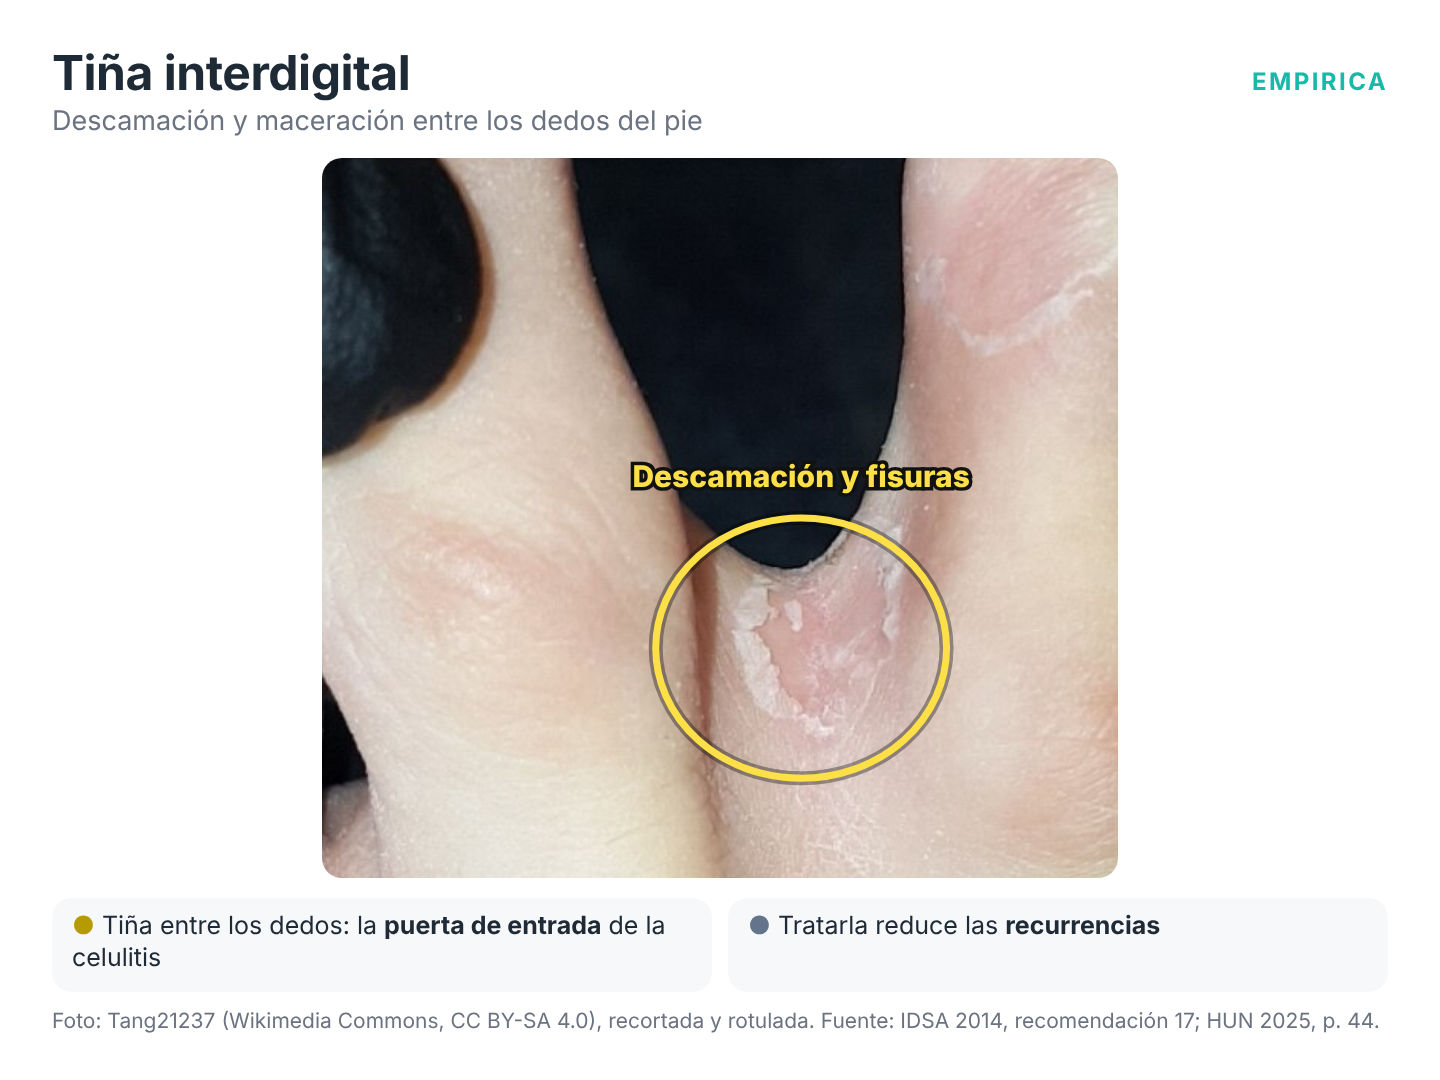
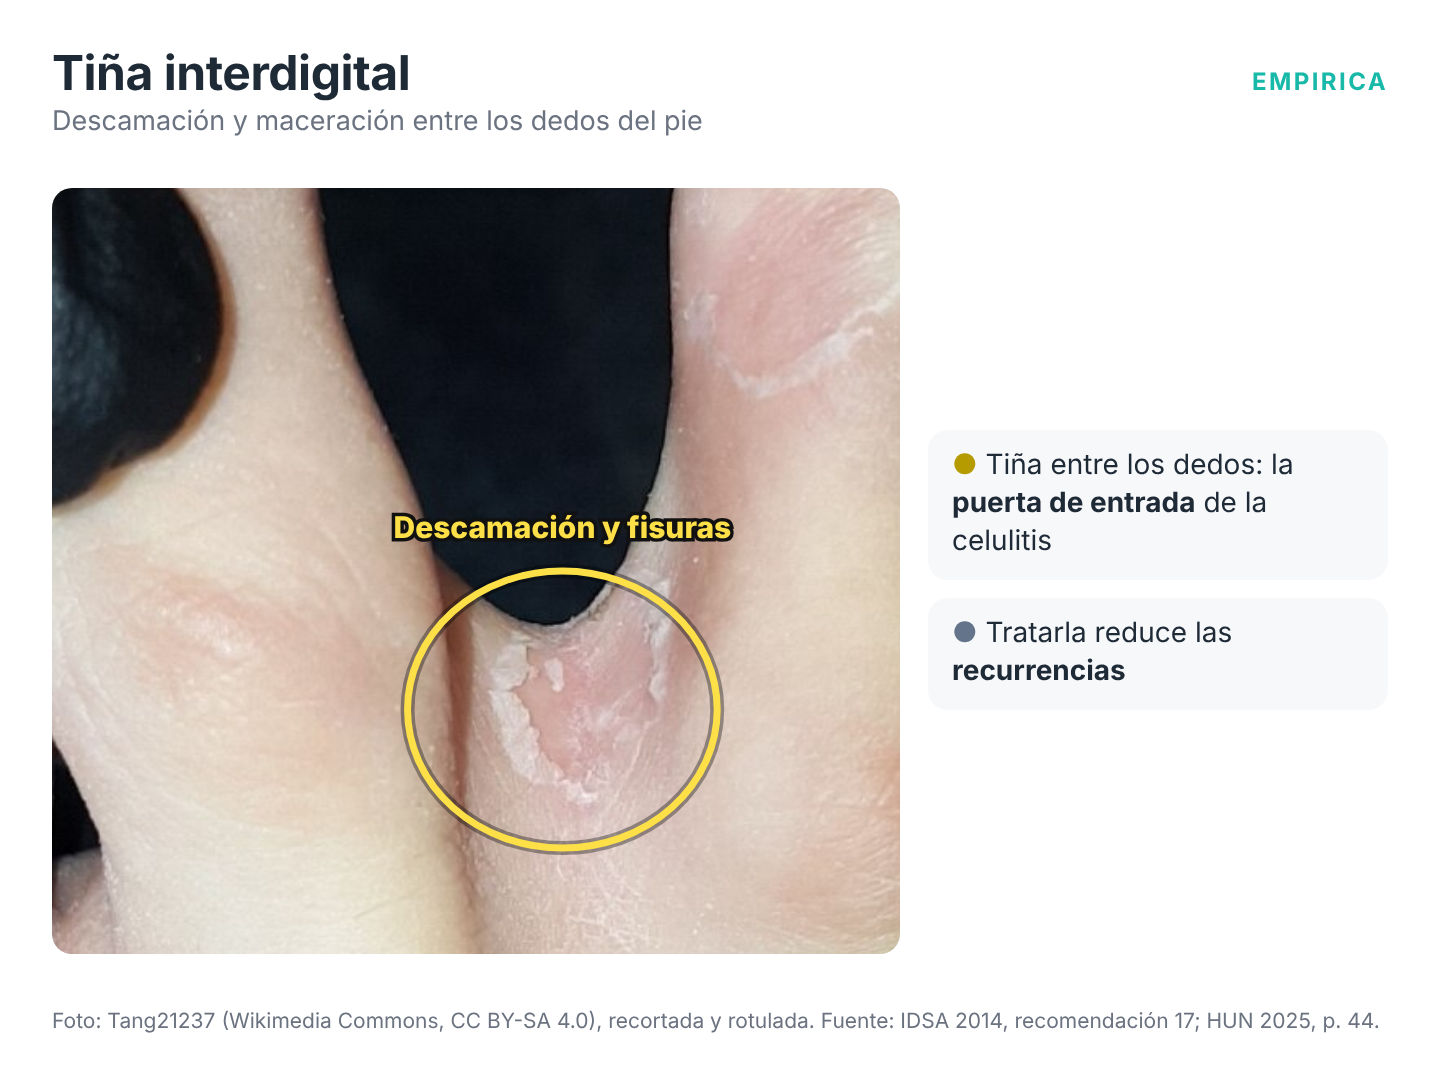
Infecciones de piel: figuras corregidas, leyendas al lado en las fotos verticales y recortes nuevos
Claude-Session: https://claude.ai/code/session_016m5YZV7VdyLu1E6fzxtJJE

diff --git a/tools/medios/figuras/infecciones_piel/absceso_antibiotico.html b/tools/medios/figuras/infecciones_piel/absceso_antibiotico.html
@@ -1,15 +1,17 @@
 <!doctype html><html lang="es"><head><meta charset="utf-8"><script src="base.js"></script></head><body><script>
-// Antibiótico después del drenaje del absceso (IDSA 2014, recs. 5-6, p. e12-e13; ACIN 2019, recs. 8-10, p. 334; WSES 2018,
-// p. 6; HUN 2025, tablas 8-9, p. 65-66; ACIN 2023 pediátrica, p. 124).
-const html = banda("Primero, <b style=\"color:#FDE68A\">drenar</b>: incisión, Gram y cultivo del pus; sin empaquetar la cavidad.", "#7C2D12") +
+// Antibiótico después del drenaje del absceso (IDSA 2014, recs. 4-6, p. e12-e13; ACIN 2019, recs. 8-10 y 36, p. 334-336;
+// WSES 2018, p. 6; WSES 2022, p. 5; HUN 2025, apartado H y tablas 8-9, p. 48 y 65-66; ACIN 2023 pediátrica, p. 124).
+const html = banda("Primero, <b style=\"color:#FDE68A\">drenar</b>: incisión y cultivo del pus, salvo en el quiste epidermoide.", "#7C2D12") +
   filaC(
-    tarjeta(VERDE, "Sólo drenaje", ["Absceso <b>simple</b>", "Sin ningún criterio", "Revisar en <b>48-72 h</b>"], { grande: true }) +
-    tarjeta(AMBAR, "Drenaje + oral", ["SIRS, inmunosupresión", "Absceso de <b>más de 5 cm</b>", "Celulitis extensa, drenaje incompleto o recurrencia",
-                                       "<b>TMP-SMX o clindamicina</b> 5-7 días"], { grande: true }) +
-    tarjeta(ROJO, "Drenaje + IV", ["Hipotensión", "Falla del drenaje y del oral", "Defensas muy comprometidas",
-                                    "<b>Vancomicina</b> 7-14 días"], { grande: true })) +
-  `<div class="caja" style="background:#F1F5F9;font-size:14px"><b style="color:#0E7490">En el niño</b>, el corte del tamaño depende de la edad: más de <b>3 cm</b> de 6 a 11 meses, más de <b>4 cm</b> de 1 a 8 años y más de <b>5 cm</b> después.</div>`;
+    tarjeta(VERDE, "Sólo drenaje", ["Absceso <b>simple</b>: eritema e induración sólo sobre la colección", "Ningún criterio de antibiótico",
+                                     "Revisar en <b>48-72 h</b>", "Consultar si <b>empeora</b>"], { grande: true }) +
+    tarjeta(AMBAR, "Drenaje + oral", ["Algún <b>criterio</b> de antibiótico", "Sin criterios de <b>hospitalización</b>",
+                                       "<b>TMP-SMX o clindamicina</b> 5-7 días", "Revisar en <b>48-72 h</b>"], { grande: true }) +
+    tarjeta(ROJO, "Hospitalizar + IV", ["Sepsis o <b>inmunosupresión</b>", "Cara, cabeza o mano, o falla del tratamiento",
+                                         "<b>Vancomicina</b> 7-14 días", "En el niño grave, <b>+ oxacilina</b>"], { grande: true })) +
+  `<div class="caja" style="background:#F1F5F9;font-size:14px"><b style="color:#0E7490">En el niño</b>, antibiótico si el absceso mide más de <b>3 cm</b> de 6 a 11 meses, más de <b>4 cm</b> de 1 a 8 años o más de <b>5 cm</b> después.</div>` +
+  `<div class="caja" style="background:#FEF2F2;font-size:14px"><b style="color:#B91C1C">Absceso complejo</b> (perianal, perirrectal o de drogas IV): cubrir también <b>gramnegativos y anaerobios</b>.</div>`;
 lienzo("¿Antibiótico después de drenar?", "El drenaje cura el absceso simple; el antibiótico se suma según los criterios",
   `<div style="display:flex;flex-direction:column;gap:9px;flex:1 0 auto">${html}</div>`,
-  "Esquema. Fuente: IDSA 2014, p. e12-e13; ACIN 2019, recomendaciones 8-10, p. 334; WSES 2018, p. 6; HUN 2025, p. 65-66; ACIN 2023 pediátrica, p. 124.");
+  "Esquema. Fuente: IDSA 2014, p. e12-e13; ACIN 2019, recomendaciones 8-10 y 36, p. 334-336; WSES 2018, p. 6; WSES 2022, p. 5; HUN 2025, p. 48 y 65-66; ACIN 2023 pediátrica, p. 124.");
 </script></body></html>

diff --git a/tools/medios/figuras/infecciones_piel/iwgdf_grados.html b/tools/medios/figuras/infecciones_piel/iwgdf_grados.html
@@ -1,17 +1,18 @@
 <!doctype html><html lang="es"><head><meta charset="utf-8"><script src="base.js"></script></head><body><script>
 // Clasificación IWGDF/IDSA de la infección del pie diabético (IWGDF/IDSA 2023, tabla 1, p. 7; recs. 2, 11, 12 y 19, p. 2-4;
-// tabla 5, p. 16) y la conducta de cada grado.
+// tabla 5, p. 16) y la conducta de cada grado. Colores de la calculadora: verde, amarillo, naranja y rojo.
+const AMARILLO_G = "#C99A06";
 const G = [
-  ["#64748B", "1 · Sin infección", "Ningún signo local ni sistémico", ["<b>Sin</b> antibiótico", "Cuidar la úlcera"]],
-  [VERDE, "2 · Leve", "2 o más signos locales; eritema de 0,5 a 2 cm; sólo piel y subcutáneo", ["En <b>casa</b>", "Contra grampositivos, 1-2 semanas"]],
-  [AMBAR, "3 · Moderada", "Eritema de 2 cm o más, o tendón, músculo, articulación o hueso; sin SIRS", ["Hospitalizar si hay <b>enfermedad arterial</b>", "Desbridar en 24-48 h; 2-4 semanas"]],
-  [ROJO, "4 · Grave", "Cualquiera de las anteriores con SIRS (2 o más criterios)", ["<b>Hospitalizar</b>, antibiótico IV", "Cirugía <b>urgente</b>"]],
+  [VERDE, "1 · Sin infección", "Menos de 2 signos locales y sin SIRS", ["<b>Sin</b> antibiótico", "Cuidar la úlcera"]],
+  [AMARILLO_G, "2 · Leve", "2 o más signos locales; eritema de 0,5 a 2 cm; sólo piel y subcutáneo", ["En <b>casa</b>", "Contra grampositivos, 1-2 semanas"]],
+  [NARANJA, "3 · Moderada", "Eritema de 2 cm o más, o tendón, músculo, articulación o hueso; sin SIRS", ["Hospitalizar si hay <b>enfermedad arterial</b>", "Considerar desbridar en 24-48 h; 1-2 semanas"]],
+  [ROJO, "4 · Grave", "Cualquiera de las anteriores con SIRS (2 o más criterios)", ["<b>Hospitalizar</b>, antibiótico IV", "Valoración quirúrgica <b>urgente</b>"]],
 ];
 const html = G.map(([c, tit, def, items]) => `<div style="display:flex;gap:10px;flex:1">
     <div style="width:258px;flex:none;border-radius:12px;background:${c};color:#fff;padding:8px 12px;display:flex;flex-direction:column;justify-content:center">
       <div style="font-size:18px;font-weight:900">${tit}</div><div style="font-size:12.8px;line-height:1.28;margin-top:2px;font-weight:600">${def}</div></div>
     ${tarjeta(c, "Qué hacer", items, { fs: 14 })}</div>`).join("") +
-  banda("Si hay <b style=\"color:#C4B5FD\">osteomielitis</b>, se añade (O) al grado 3 o 4: cultivar el hueso.");
+  banda("Si hay <b style=\"color:#C4B5FD\">osteomielitis</b>, se añade (O) al grado 3 o 4. El SIRS sin signos locales <b style=\"color:#FCA5A5\">no</b> es grado 1.");
 lienzo("Clasificación IWGDF/IDSA del pie diabético", "El grado decide dónde se trata, por qué vía y cuándo operar",
   `<div style="display:flex;flex-direction:column;gap:8px;flex:1 0 auto">${html}</div>`,
   "Esquema. Fuente: IWGDF/IDSA 2023 (Diabetes Metab Res Rev 2024;40:e3687), tabla 1, p. 7; recomendaciones 2, 11, 12 y 19; tabla 5, p. 16. CC BY 4.0.");

diff --git a/tools/medios/figuras/infecciones_piel/capas.html b/tools/medios/figuras/infecciones_piel/capas.html
@@ -13,13 +13,13 @@ const CAPAS = [
   ["Músculo", 240, 390, "#C9505A"],
 ];
 const ETAPAS = [
-  { n: "Impétigo", capa: "Epidermis", c: AMBAR, tipo: "No purulenta, superficial", txt: "Pústulas que se rompen y dejan <b>costras melicéricas</b>", sel: [0] },
-  { n: "Ectima", capa: "Epidermis y dermis", c: NARANJA, tipo: "No purulenta, superficial", txt: "<b>Úlcera en sacabocado</b> con costra; deja cicatriz", sel: [0, 1, 2] },
+  { n: "Impétigo", capa: "Epidermis", c: "#C99A06", tipo: "No purulenta, superficial", txt: "Pústulas que se rompen y dejan <b>costras melicéricas</b>", sel: [0] },
+  { n: "Ectima", capa: "Epidermis y dermis", c: "#A16207", tipo: "No purulenta, superficial", txt: "<b>Úlcera en sacabocado</b> con costra; deja cicatriz", sel: [0, 1, 2] },
   { n: "Erisipela", capa: "Dermis superior y linfáticos", c: ROSA_C, tipo: "No purulenta", txt: "Placa roja, edematosa, con <b>borde neto</b>", sel: [1] },
-  { n: "Celulitis", capa: "Dermis profunda y subcutáneo", c: ROJO, tipo: "No purulenta", txt: "Eritema de <b>bordes mal definidos</b>, con calor y dolor", sel: [2, 3] },
-  { n: "Absceso", capa: "Dermis e hipodermis", c: AMBAR, tipo: "Purulenta", txt: "<b>Cavidad llena de pus</b>: se drena", sel: [2, 3] },
-  { n: "Fascitis necrosante", capa: "Fascia", c: "#7C3AED", tipo: "Necrosante", txt: "Necrosis que corre por la fascia: <b>dolor desproporcionado</b>", sel: [4] },
-  { n: "Piomiositis", capa: "Músculo", c: "#0E7490", tipo: "Purulenta, profunda", txt: "<b>Absceso dentro del músculo</b>: se confirma con resonancia", sel: [5] },
+  { n: "Celulitis", capa: "Dermis profunda y subcutáneo", c: "#EC4899", tipo: "No purulenta", txt: "Eritema de <b>bordes mal definidos</b>, con calor y dolor", sel: [2, 3] },
+  { n: "Absceso", capa: "Dermis e hipodermis", c: NARANJA, tipo: "Purulenta", txt: "<b>Cavidad llena de pus</b>: se drena", sel: [2, 3] },
+  { n: "Fascitis necrosante", capa: "Fascia", c: ROJO, tipo: "Necrosante", txt: "Necrosis que corre por la fascia: <b>dolor desproporcionado</b>", sel: [4] },
+  { n: "Piomiositis", capa: "Músculo", c: "#C2410C", tipo: "Purulenta, profunda", txt: "<b>Absceso dentro del músculo</b>: se confirma con resonancia", sel: [5] },
 ];
 const X0 = 16, X1 = 390;
 

diff --git a/tools/medios/figuras/infecciones_piel/gravedad_celulitis.html b/tools/medios/figuras/infecciones_piel/gravedad_celulitis.html
@@ -1,9 +1,9 @@
 <!doctype html><html lang="es"><head><meta charset="utf-8"><script src="base.js"></script></head><body><script>
 // Gravedad de la celulitis y la erisipela (IDSA 2014, fig. 1 y recs. 14 y 18, p. e11, e15 y e16; ACIN 2019, recs. 12-14,
-// p. 334-335) y el tratamiento que corresponde a cada nivel.
+// p. 334-335; HUN 2025, apartado H, p. 48) y el tratamiento que corresponde a cada nivel.
 const filas = [
-  [VERDE, "Leve", "Sin signos sistémicos", ["En casa", "<b>Cefalexina</b> 5 días", "Elevar la extremidad"]],
-  [AMBAR, "Moderada", "Con signos sistémicos: fiebre, taquicardia", ["Hospitalizar", "<b>Oxacilina</b> o cefazolina IV", "Vancomicina si hay riesgo de <b>SAMR</b>"]],
+  [VERDE, "Leve", "Sin signos sistémicos ni criterios de hospitalización", ["En casa", "<b>Cefalexina</b> 5 días", "Elevar la extremidad"]],
+  [NARANJA, "Moderada", "SIRS (fiebre, taquicardia o taquipnea) o un criterio de hospitalización", ["<b>Hospitalizar</b>", "<b>Oxacilina</b> o cefazolina IV", "Vancomicina si hay riesgo de <b>SAMR</b>"]],
   [ROJO, "Grave", "Falla del oral, inmunosupresión, hipotensión, ampollas o disfunción de órganos",
    ["Cirujano <b>urgente</b>: descartar necrosis", "<b>Vancomicina + piperacilina-tazobactam</b>"]],
 ];
@@ -14,5 +14,5 @@ const html = filas.map(([c, tit, def, items]) => `<div style="display:flex;gap:1
   banda("La celulitis grave puede ser una <b style=\"color:#FCA5A5\">infección necrosante</b> en sus inicios: ante la duda, explorar.");
 lienzo("Gravedad de la celulitis y la erisipela", "Cada nivel cambia dónde y con qué se trata",
   `<div style="display:flex;flex-direction:column;gap:9px;flex:1 0 auto">${html}</div>`,
-  "Esquema. Fuente: IDSA 2014, fig. 1 y recomendaciones 14 y 18, p. e11, e15-e16; ACIN 2019, recomendaciones 12-14, p. 334-335.");
+  "Esquema. Fuente: IDSA 2014, fig. 1 y recomendaciones 14 y 18, p. e11, e15-e16; ACIN 2019, recomendaciones 12-14, p. 334-335; HUN 2025, p. 48.");
 </script></body></html>

diff --git a/tools/medios/figuras/infecciones_piel/borde_marcado.html b/tools/medios/figuras/infecciones_piel/borde_marcado.html
@@ -1,6 +1,6 @@
 <!doctype html><html lang="es"><head><meta charset="utf-8"><script src="base.js"></script></head><body><script>
 // GIF sobre una foto real (John Campbell, Wikimedia Commons, CC0): celulitis de la pierna con el borde del eritema marcado con
-// rotulador. NICE NG141 (1.1.3 y 1.1.9): marcar la extensión para vigilar la evolución; revaluar si el eritema pasa la marca
+// marcador. NICE NG141 (1.1.3 y 1.1.9): marcar la extensión para vigilar la evolución; revaluar si el eritema pasa la marca
 // (algo de extensión inicial es esperable) o si no mejora a los 2-3 días; en la piel oscura el eritema se ve menos.
 const SRC = "fuentes/commons_Cellulitis_leg_(44699140442).jpg", W = 1280, H = 960;
 const LINEA = [[197,390],[165,405],[125,435],[110,465],[112,490],[130,510],[165,522],[185,540],[192,565],[200,587],[225,600],[260,625],[280,645],[300,662],[345,685],[365,697],[360,710],[352,717]];
@@ -8,7 +8,7 @@ const largo = LINEA.slice(1).reduce((s, p, i) => s + Math.hypot(p[0] - LINEA[i][
 const AM = "#FDE047";
 const PASOS = [
   [0.0, "Celulitis de la pierna", "Eritema, edema y calor; el borde se marca <b>al inicio</b>"],
-  [0.22, "Marcar el borde", "Con un rotulador, por todo el borde del <b>eritema</b>, con fecha y hora"],
+  [0.22, "Marcar el borde", "Con un marcador, por todo el borde del <b>eritema</b>, con fecha y hora"],
   [0.58, "Comparar en el control", "Si el eritema <b>pasa la marca</b>, la infección avanza: revaluar"],
   [0.8, "Revaluar también si…", "No mejora en <b>2-3 días</b> o hay dolor desproporcionado"],
 ];

diff --git a/tools/medios/figuras/infecciones_piel/foto_gangrena_pie.html b/tools/medios/figuras/infecciones_piel/foto_gangrena_pie.html
@@ -1,14 +1,14 @@
 <!doctype html><html lang="es"><head><meta charset="utf-8"><script src="base.js"></script><script src="foto.js"></script></head><body><script>
 // Gangrena gaseosa de un pie diabético (Heather Murphy-Lavoie, StatPearls, CC BY 4.0).
-fotos({ titulo: "Pie diabético grave", sub: "Gangrena de los dedos con celulitis del dorso",
+fotos({ titulo: "Pie diabético con gangrena", sub: "Gangrena de los dedos con celulitis del dorso",
   paneles: [{ src: "fuentes/commons_DMgas_gangrene.jpg",
       tam: [498, 477],
       recorte: [60, 30, 400, 440],
       marcas: [{ x: 200, y: 140, rx: 85, ry: 75, c: AMARILLO, t: "Gangrena", ty: 55 },
              { x: 265, y: 310, rx: 115, ry: 100, c: CIAN, t: "Celulitis", ty: 432 }] }],
   alto: 335,
-  notas: [[AMARILLO, "<b>Gangrena</b> de los dedos, con gas en los tejidos"],
+  notas: [[AMARILLO, "<b>Gangrena</b> de los dedos"],
     [CIAN, "Celulitis que sube por el dorso"],
-    ["#64748B", "Hospitalizar, antibiótico IV y cirugía <b>urgente</b>"]],
+    ["#64748B", "Hospitalizar, antibiótico IV y valoración quirúrgica <b>urgente</b>"]],
   fuente: "Foto: Heather Murphy-Lavoie, StatPearls (Wikimedia Commons, CC BY 4.0), recortada y rotulada. Fuente: IWGDF/IDSA 2023, recomendación 18." });
 </script></body></html>

diff --git a/tools/medios/figuras/infecciones_piel/foto.js b/tools/medios/figuras/infecciones_piel/foto.js
@@ -33,7 +33,20 @@ function panelSvg(p, k) {
   </div>`;
 }
 
-function fotos({ titulo, sub, paneles, dir = "fila", alto = 380, ancho = 668, hueco = 8, notas = [], fuente }) {
+function fotos({ titulo, sub, paneles, dir = "fila", alto = 380, ancho = 668, hueco = 8, notas = [], fuente, lado = null }) {
+  // Foto casi cuadrada o vertical: la leyenda va en una columna al lado para que la imagen llene el lienzo.
+  const asp1 = paneles.length === 1 ? paneles[0].recorte[2] / paneles[0].recorte[3] : 9;
+  if (lado === null) lado = dir === "fila" && asp1 < 1.35;
+  if (lado) {
+    const H = 392, Wn = 230;
+    const w = Math.min(H * asp1, ancho - 14 - Wn), k = w / paneles[0].recorte[2];
+    lienzo(titulo, sub,
+      `<div style="display:flex;gap:14px;align-items:center;flex:1 0 auto">${panelSvg(paneles[0], k)}
+         <div style="flex:1;display:flex;flex-direction:column;gap:9px;justify-content:center">${notas.map(([c, t]) =>
+           `<div class="item" style="background:#F7F8FA;font-size:14px;line-height:1.35;padding:9px 12px"><b style="color:${c === AMARILLO ? "#B59A00" : c}">●</b> ${t}</div>`).join("")}</div></div>`,
+      fuente);
+    return;
+  }
   let ks;
   if (dir === "fila") {
     // misma altura para todos los paneles

diff --git a/tools/medios/figuras/infecciones_piel/foto_hidradenitis.html b/tools/medios/figuras/infecciones_piel/foto_hidradenitis.html
@@ -1,12 +1,12 @@
 <!doctype html><html lang="es"><head><meta charset="utf-8"><script src="base.js"></script><script src="foto.js"></script></head><body><script>
-// Hidradenitis supurativa de la axila, estadio II de Hurley (Alharbi, Kauczok y Pallua, BMC Dermatology, CC BY 2.5).
+// Hidradenitis supurativa de la axila (Alharbi, Kauczok y Pallua, BMC Dermatology, CC BY 2.5).
 fotos({ titulo: "Hidradenitis supurativa", sub: "Nódulos, abscesos y cicatrices en la axila",
   paneles: [{ src: "fuentes/commons_Hidradenitis_suppurativa_(stage_II)_in_axilla.jpg",
       tam: [870, 1152],
       recorte: [150, 380, 640, 680],
       marcas: [{ x: 470, y: 720, rx: 165, ry: 185, c: AMARILLO, t: "Nódulos y trayectos", ty: 515 }] }],
   alto: 335,
-  notas: [[AMARILLO, "Nódulos, abscesos y cicatrices en la axila (estadio II de Hurley)"],
+  notas: [[AMARILLO, "Nódulos, abscesos y cicatrices en la axila"],
     ["#64748B", "Otra causa local de abscesos que se <b>repiten</b>"]],
   fuente: "Foto: Alharbi, Kauczok y Pallua, BMC Dermatology (Wikimedia Commons, CC BY 2.5), recortada y rotulada. Fuente: IDSA 2014, recomendación 7." });
 </script></body></html>

diff --git a/tools/medios/figuras/infecciones_piel/foto_celulitis_marca.html b/tools/medios/figuras/infecciones_piel/foto_celulitis_marca.html
@@ -3,11 +3,12 @@
 fotos({ titulo: "Celulitis con el borde marcado", sub: "El trazo azul marca el borde del eritema al inicio",
   paneles: [{ src: "fuentes/commons_Left_cellulitis_of_leg.jpg",
       tam: [1280, 960],
-      recorte: [0, 0, 1280, 590],
+      recorte: [0, 0, 1280, 700],
       tapar: [[40, 470, 300, 62, "#fff", 12]], textos: [{"x": 190, "y": 512, "t": "Borde marcado", "ancla": "middle", "c": "#4F479A", "peso": 800, "tam": 34}],
       marcas: [{ x: 780, y: 290, rx: 320, ry: 150, c: AMARILLO, t: "Eritema", ty: 125 }] }],
-  alto: 360,
+  alto: 372,
   notas: [["#4F479A", "<b>Trazo azul</b>: el borde del eritema marcado al inicio"],
-    [AMARILLO, "En el control, el eritema no debe <b>pasar</b> la marca"]],
+    [AMARILLO, "<b>Elipse amarilla</b>: el eritema de la celulitis"],
+    ["#64748B", "En el control, el eritema no debe <b>pasar</b> la marca"]],
   fuente: "Foto: Stephen Ewen (Wikimedia Commons, CC BY-SA 4.0), recortada y rotulada. Fuente: NICE NG141, 1.1.3 y 1.1.9." });
 </script></body></html>

diff --git a/tools/medios/figuras/infecciones_piel/foto_impetigo_extenso.html b/tools/medios/figuras/infecciones_piel/foto_impetigo_extenso.html
@@ -4,9 +4,9 @@ fotos({ titulo: "Impétigo con muchas lesiones", sub: "Lesiones costrosas en la 
   paneles: [{ src: "fuentes/commons_Impetigo-infected.jpg",
       tam: [1000, 1331],
       recorte: [170, 290, 620, 640],
-      marcas: [{ x: 475, y: 620, rx: 230, ry: 290, c: AMARILLO, t: "Más de 5 lesiones", ty: 320 }] }],
+      marcas: [{ x: 475, y: 620, rx: 230, ry: 290, c: AMARILLO, t: "Muchas lesiones", ty: 320 }] }],
   alto: 360,
-  notas: [[AMARILLO, "Lesiones costrosas en el cuello y la nuca: <b>más de 5</b>"],
+  notas: [[AMARILLO, "<b>Muchas</b> lesiones costrosas en el cuello y la nuca"],
     ["#64748B", "Tratamiento <b>oral</b> 7 días; en el adulto, TMP-SMX o clindamicina"]],
   fuente: "Foto: Åsa Thörn (Wikimedia Commons, CC BY-SA 3.0), recortada y rotulada. Fuente: ACIN 2019, recomendaciones 2 y 5, p. 334." });
 </script></body></html>

diff --git a/tools/medios/figuras/infecciones_piel/foto_eco_absceso.html b/tools/medios/figuras/infecciones_piel/foto_eco_absceso.html
@@ -6,7 +6,8 @@ fotos({ titulo: "Abscesos en la ecografía", sub: "Placa roja del muslo, sin flu
       recorte: [85, 30, 555, 315],
       marcas: [{ x: 520, y: 150, rx: 70, ry: 58, c: AMARILLO, t: "Colección", ty: 78 },
              { x: 241, y: 124, rx: 42, ry: 34, c: AMARILLO },
-             { x: 330, y: 296, ty: 296, solo: true, t: "Fascia", c: CIAN }] }],
+             { x: 330, y: 296, ty: 318, solo: true, t: "Fascia", c: CIAN }],
+      lineas: [{ x1: 92, y1: 333, x2: 300, y2: 337, c: CIAN }, { x1: 300, y1: 337, x2: 470, y2: 331, c: CIAN }] }],
   alto: 335,
   notas: [[AMARILLO, "Colecciones <b>hipoecoicas</b> en el subcutáneo: abscesos"],
     [CIAN, "Fascia: las colecciones están por encima, en la piel"],

diff --git a/tools/medios/figuras/infecciones_piel/foto_gas_rx.html b/tools/medios/figuras/infecciones_piel/foto_gas_rx.html
@@ -1,6 +1,6 @@
 <!doctype html><html lang="es"><head><meta charset="utf-8"><script src="base.js"></script><script src="foto.js"></script></head><body><script>
-// Rx de una gangrena gaseosa de la pierna (شہاب, CC BY-SA 4.0); rótulo en inglés traducido.
-fotos({ titulo: "Gas en los tejidos blandos", sub: "Rx de la pierna: el gas diseca los planos de los tejidos",
+// Rx lateral de la rodilla con una gangrena gaseosa (شہاب, CC BY-SA 4.0); rótulo en inglés traducido.
+fotos({ titulo: "Gas en los tejidos blandos", sub: "Rx lateral de la rodilla: el gas diseca los planos de los tejidos",
   paneles: [{ src: "fuentes/commons_Gas_Gangrene_in_XRay.jpg",
       tam: [1000, 1304],
       recorte: [110, 260, 850, 860],
